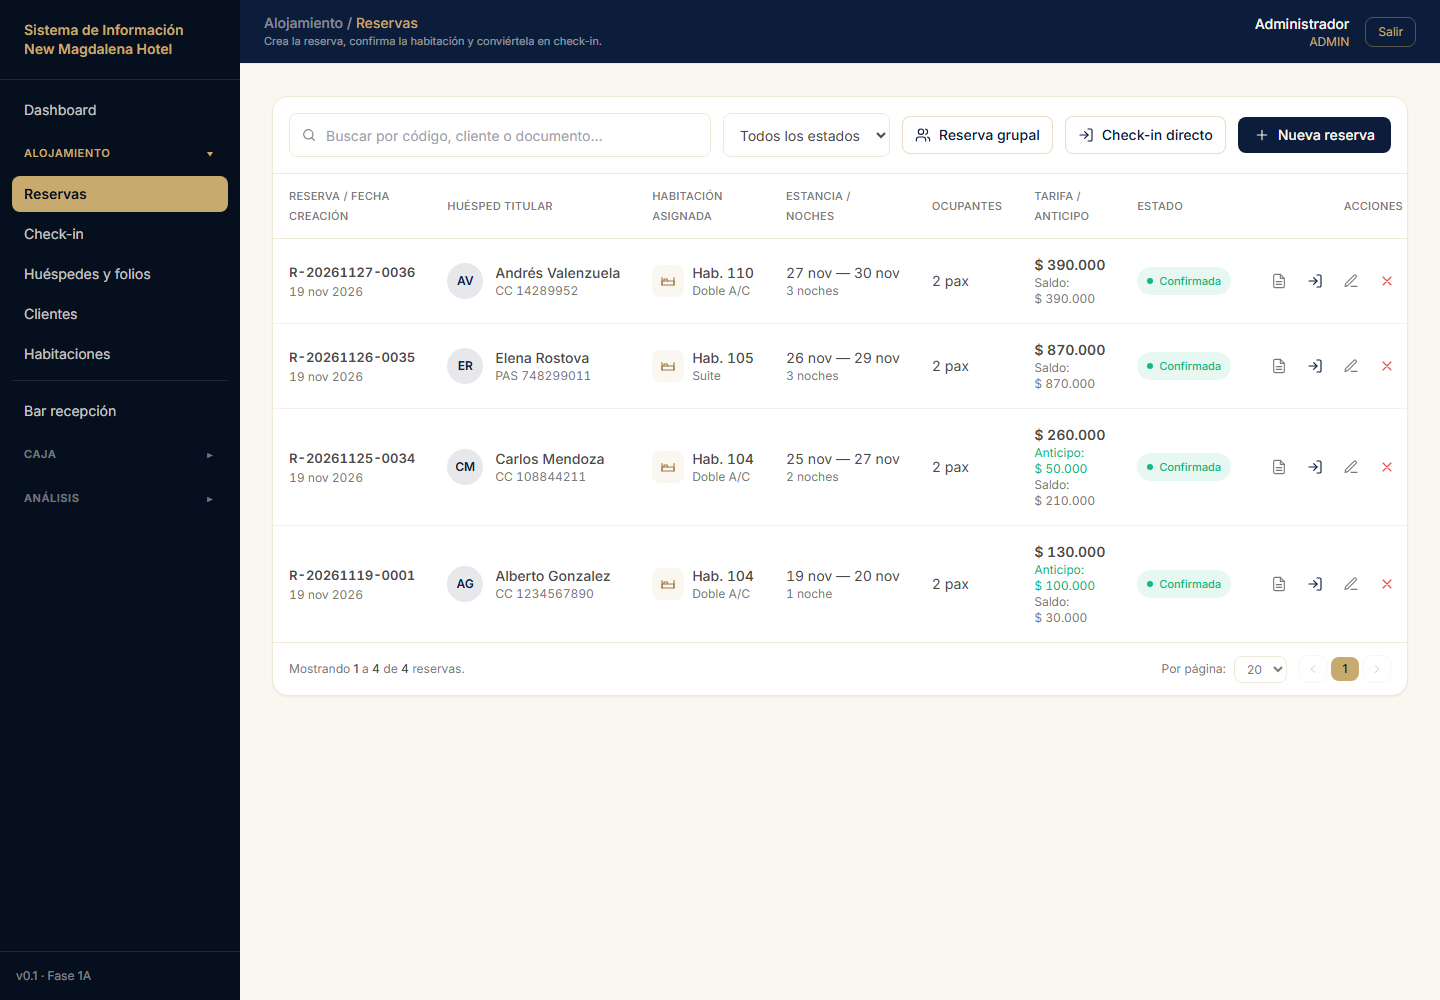
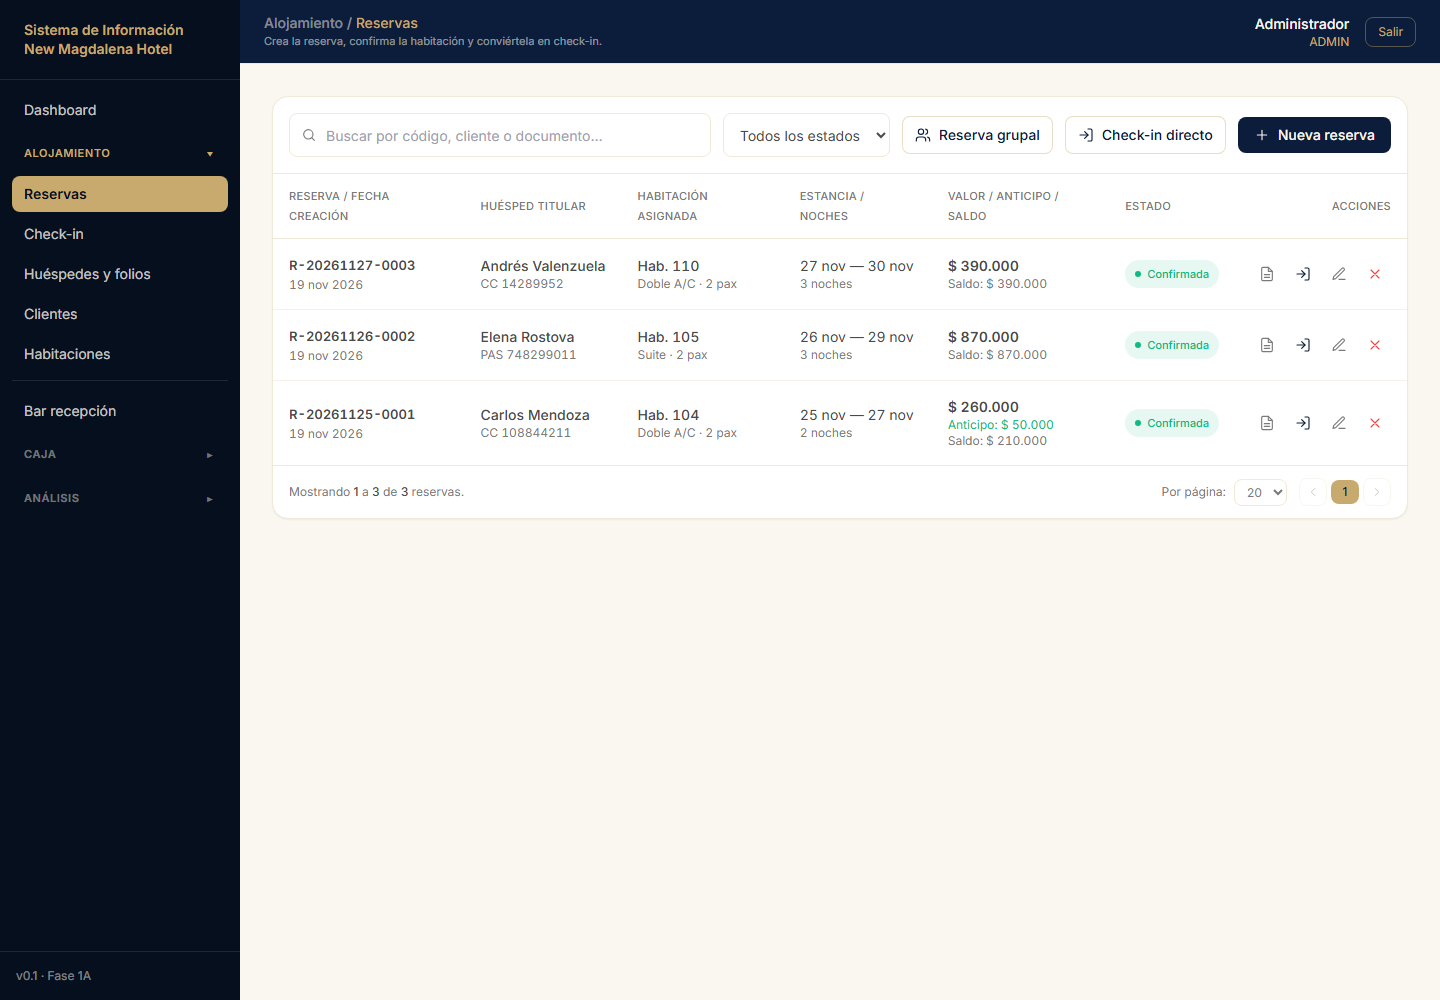
feat(reservas): simplificar columnas y desglosar tarifa

diff --git a/frontend/src/pages/ReservasPage.tsx b/frontend/src/pages/ReservasPage.tsx
@@ -64,16 +64,6 @@ function claseEstado(estado: string) {
   return clases[estado] ?? 'bg-cream-dark text-stone-light';
 }
 
-function iniciales(nombre: string | null) {
-  if (!nombre) return '??';
-  return nombre
-    .split(' ')
-    .filter(Boolean)
-    .slice(0, 2)
-    .map((parte) => parte[0]?.toUpperCase())
-    .join('');
-}
-
 function formatoFechaCorta(valor: string) {
   return new Intl.DateTimeFormat('es-CO', { day: '2-digit', month: 'short' })
     .format(new Date(`${valor.slice(0, 10)}T12:00:00`))
@@ -121,8 +111,7 @@ type NombreIcono =
   | 'editar'
   | 'cancelar'
   | 'folio'
-  | 'flecha'
-  | 'cama';
+  | 'flecha';
 
 function Icono({ nombre, className = 'h-4 w-4' }: { nombre: NombreIcono; className?: string }) {
   const contenido: Record<NombreIcono, ReactNode> = {
@@ -169,13 +158,6 @@ function Icono({ nombre, className = 'h-4 w-4' }: { nombre: NombreIcono; classNa
       </>
     ),
     flecha: <path d="m9 18 6-6-6-6" />,
-    cama: (
-      <>
-        <path d="M3 7v11M21 7v11" />
-        <path d="M3 12h18v6H3z" />
-        <path d="M6 12V9h5v3" />
-      </>
-    ),
   };
 
   return (
@@ -725,15 +707,14 @@ export function ReservasPage() {
           ) : (
             <>
               <div className="overflow-x-auto">
-                <table className="w-full min-w-[1080px] text-left text-sm">
+                <table className="w-full min-w-[980px] text-left text-sm">
                   <thead>
                     <tr className="border-b border-cream-dark text-[11px] uppercase tracking-wide text-stone-light">
                       <th className="px-4 py-3 font-medium">Reserva / Fecha creación</th>
                       <th className="px-4 py-3 font-medium">Huésped titular</th>
                       <th className="px-4 py-3 font-medium">Habitación asignada</th>
                       <th className="px-4 py-3 font-medium">Estancia / Noches</th>
-                      <th className="px-4 py-3 font-medium">Ocupantes</th>
-                      <th className="px-4 py-3 font-medium">Tarifa / Anticipo</th>
+                      <th className="px-4 py-3 font-medium">Valor / Anticipo / Saldo</th>
                       <th className="px-4 py-3 font-medium">Estado</th>
                       <th className="px-4 py-3 text-right font-medium">Acciones</th>
                     </tr>
@@ -765,36 +746,24 @@ export function ReservasPage() {
                           </td>
 
                           <td className="px-4 py-4 align-middle">
-                            <div className="flex items-center gap-3">
-                              <span className="flex h-9 w-9 shrink-0 items-center justify-center rounded-full bg-navy/10 text-xs font-semibold text-navy">
-                                {iniciales(reserva.cliente)}
-                              </span>
-                              <div>
-                                <p className="whitespace-nowrap font-medium text-stone">
-                                  {reserva.cliente ?? 'Sin titular'}
-                                </p>
-                                <p className="whitespace-nowrap text-xs text-stone-light">
-                                  {reserva.tipo_documento ?? 'DOC'}{' '}
-                                  {reserva.numero_documento ?? '—'}
-                                </p>
-                              </div>
+                            <div>
+                              <p className="whitespace-nowrap font-medium text-stone">
+                                {reserva.cliente ?? 'Sin titular'}
+                              </p>
+                              <p className="whitespace-nowrap text-xs text-stone-light">
+                                {reserva.tipo_documento ?? 'DOC'}{' '}
+                                {reserva.numero_documento ?? '—'}
+                              </p>
                             </div>
                           </td>
 
                           <td className="px-4 py-4 align-middle">
-                            <div className="flex items-center gap-2">
-                              <span className="flex h-8 w-8 items-center justify-center rounded-lg bg-cream text-gold-dark">
-                                <Icono nombre="cama" />
-                              </span>
-                              <div>
-                                <p className="whitespace-nowrap font-medium text-stone">
-                                  Hab. {reserva.habitacion}
-                                </p>
-                                <p className="whitespace-nowrap text-xs text-stone-light">
-                                  {tipoHabitacion(habitacion)}
-                                </p>
-                              </div>
-                            </div>
+                            <p className="whitespace-nowrap font-medium text-stone">
+                              Hab. {reserva.habitacion}
+                            </p>
+                            <p className="whitespace-nowrap text-xs text-stone-light">
+                              {tipoHabitacion(habitacion)} · {reserva.pax} pax
+                            </p>
                           </td>
 
                           <td className="px-4 py-4 align-middle">
@@ -807,10 +776,6 @@ export function ReservasPage() {
                             </p>
                           </td>
 
-                          <td className="px-4 py-4 align-middle text-stone">
-                            {reserva.pax} pax
-                          </td>
-
                           <td className="px-4 py-4 align-middle">
                             <p className="font-semibold text-stone">
                               {formatoMoneda(Number(reserva.total))}
@@ -820,11 +785,9 @@ export function ReservasPage() {
                                 Anticipo: {formatoMoneda(Number(reserva.anticipo))}
                               </p>
                             )}
-                            {Number(reserva.saldo) > 0 && (
-                              <p className="text-xs text-stone-light">
-                                Saldo: {formatoMoneda(Number(reserva.saldo))}
-                              </p>
-                            )}
+                            <p className="text-xs text-stone-light">
+                              Saldo: {formatoMoneda(Number(reserva.saldo))}
+                            </p>
                           </td>
 
                           <td className="px-4 py-4 align-middle">

diff --git a/docs/tasks.md b/docs/tasks.md
@@ -503,7 +503,8 @@ design, design-system y tasks.
 
 **Aceptación:**
 - [x] Barra con búsqueda, filtro, reserva grupal, check-in directo y nueva reserva.
-- [x] Tabla con huésped, habitación, estancia, ocupantes, tarifa, anticipo y estado.
+- [x] Tabla con huésped, habitación y ocupantes, estancia, valor/anticipo/saldo y estado.
+- [x] Sin iniciales ni icono de cama; la ocupación va en la habitación.
 - [x] Acciones por fila con iconos y etiquetas accesibles.
 - [x] Paginación de 10, 20 o 50 filas.
 - [x] Búsqueda con espera de 350 ms.

diff --git a/docs/requirements.md b/docs/requirements.md
@@ -346,7 +346,7 @@ la información principal del día.
 - Convertir reserva en check-in.
 - Editar y cancelar.
 - Lista con búsqueda por código, cliente o documento, filtro por estado y paginación.
-- Columnas de huésped, habitación, estancia, ocupantes, tarifa, anticipo, estado y acciones.
+- Columnas de huésped, habitación con ocupantes, estancia, valor/anticipo/saldo, estado y acciones.
 - Acciones por fila para contrato, check-in, editar, cancelar o ver folio.
 
 ### FR-39 — Tablero de habitaciones en la pantalla
